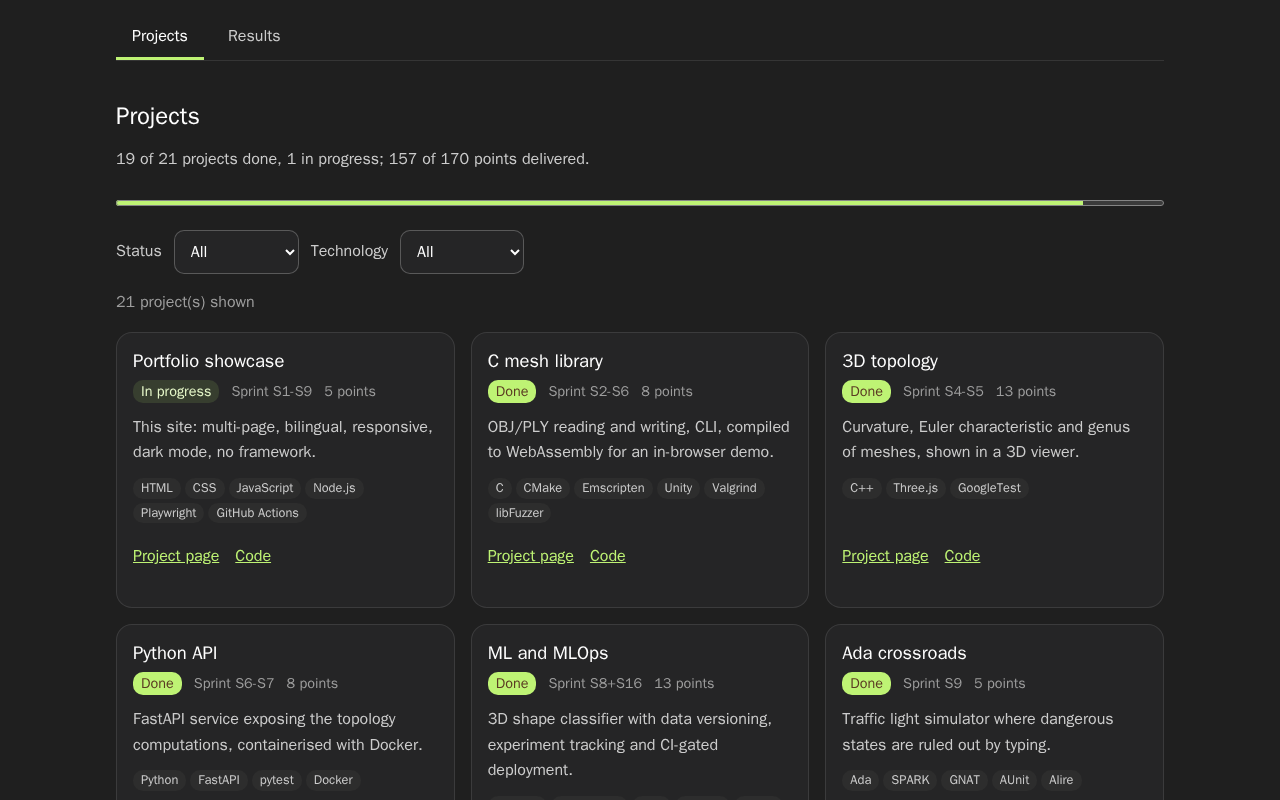
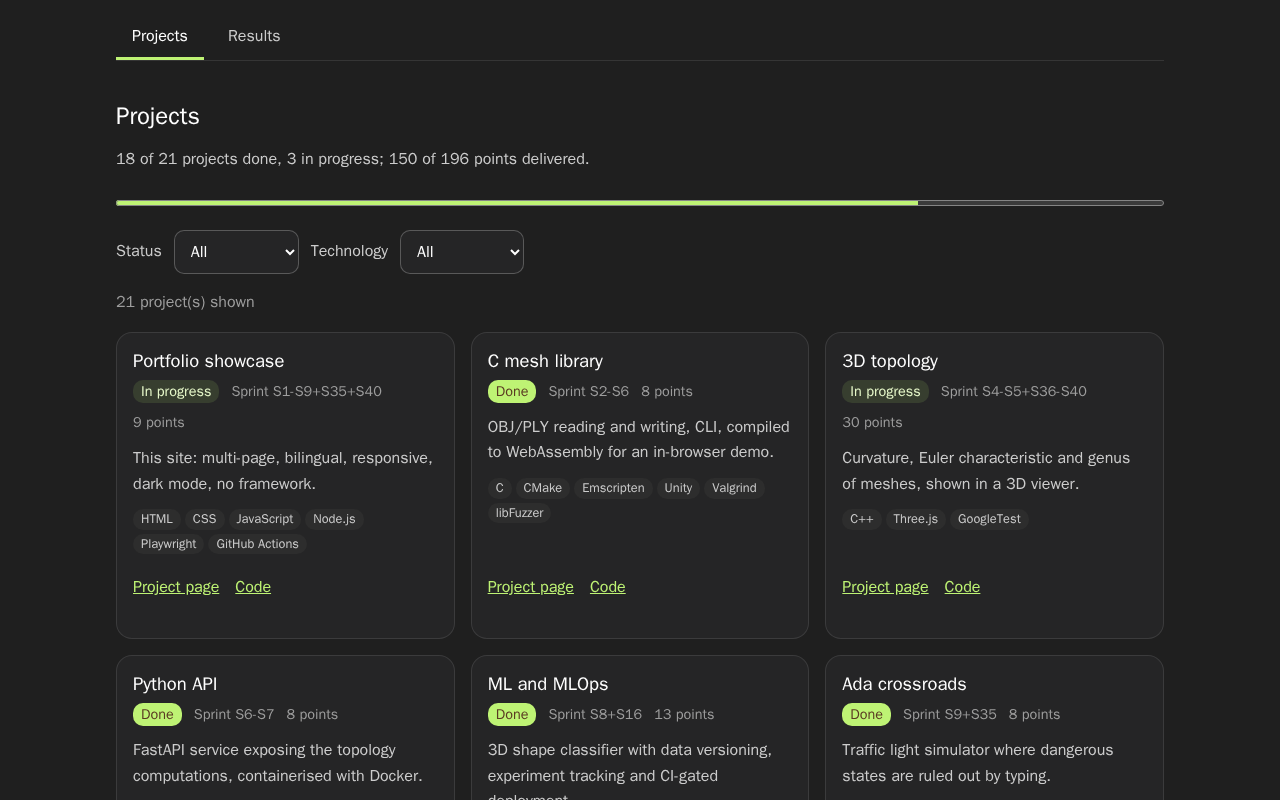
feat(vitrine): counts of projects and points computed everywhere, stale ones refused (sprint 40, story 3)
The Angular capture's alt text comes from data/projects.json through
projectSummary, the dashboards' own count; the captures are regenerated and
the script records the counts it photographed. A unit test refuses a stale
capture, a stale "N projects", or a stale total in the plan or the risk log.

diff --git a/scrum/sprint-40.md b/scrum/sprint-40.md
@@ -8,7 +8,7 @@
 |---|---|---|
 | En tant que visiteur, je vois combien de temps prend chaque calcul (topologie) : temps CPU mesuré dans le navigateur (WebAssembly) pour la hauteur, la persistance et le graphe de Reeb, affiché sous chaque résultat ; un tableau de temps natif et WebAssembly mesurés de 10 000 à un million de triangles, produit par un banc d'essai versionné ; une note sur le GPU (ce qu'il accélérerait, pourquoi la réduction et les union-find s'y prêtent mal) et une sur la limite de 32 Mo, chiffres à l'appui ; FR/EN ; GoogleTest, Node et Playwright. | 2 | Fait |
 | En tant qu'étudiant, je suis la décomposition d'un objet par dimensions croissantes (G-cartes) : objet, puis α0 (chaque arête en deux brins), α1 (les brins d'une face autour de chaque sommet), α2 (les faces cousues), puis la G-carte ; liaisons αi redessinées selon la convention des manuels (α0 en trait court entre les deux brins d'une arête, α1 en arc au coin, α2 en double trait entre deux faces), dans les étapes et sur le patron du cube ; tests unitaires de la géométrie (chaque liaison relie les bons brins, sans se confondre avec un brin), Playwright. | 2 | Fait |
-| En tant que recruteur, je lis partout le bon nombre de projets et de points (vitrine) : captures des tableaux de bord React et Angular régénérées, textes alternatifs calculés depuis `data/projects.json`, et un test qui refuse un nombre de projets ou de points périmé dans les textes et les données. | 1 | À faire |
+| En tant que recruteur, je lis partout le bon nombre de projets et de points (vitrine) : captures des tableaux de bord React et Angular régénérées, textes alternatifs calculés depuis `data/projects.json`, et un test qui refuse un nombre de projets ou de points périmé dans les textes et les données. | 1 | Fait |
 | En tant que recruteur, je lis un burndown juste (vitrine) : le reste compté en points de stories livrées, sprint après sprint, d'après `scrum/sprint-NN.md` ; chaque ajout de périmètre (D46 à D49) apparaît comme une marche au sprint où il arrive, sans réécrire les sprints passés ; « points restants » du backlog égal aux stories ouvertes (8 aujourd'hui, pas 45) ; textes de fin et tests unitaires suivent. | 1 | À faire |
 
 ## Rétro (à compléter par Charles)

diff --git a/REVIEW.md b/REVIEW.md
@@ -54,4 +54,5 @@ Claude y ajoute aussi ses constats au fil de l'eau, préfixés « (Claude) » ; 
 | 2026-10-08 | `src/templates.mjs` | (Claude) Détecté par axe sur mobile : le cadre du tableau des paires défile mais ne recevait pas le focus clavier | `tabindex="0"`, rôle `region` et nom, comme les graphiques de la page Gestion de projet |
 | 2026-10-08 | `src/templates.mjs` (page Gestion de projet) | (Claude) Détecté par le test de la feuille de route à l'ouverture du sprint 38 : le dernier sprint prévu ouvert mais pas fini, la page disait « Tous les sprints sont faits » (elle comparait le numéro du dernier fichier de sprint, pas les sprints clos) | Le texte de fin dépend des sprints clos |
 | 2026-10-08 | `src/lib.mjs` (`burndown`), page Gestion de projet | (Claude) Vu en ouvrant les sprints 39 et 40 (D49) : le reste se compte par projet entier, brûlé seulement à son dernier sprint. Réouvrir topologie, G-cartes et la vitrine affiche « 45 points restants sur 195 » quand les stories ouvertes n'en font que 8, et fait remonter le burndown de tous les sprints passés (déjà le cas à l'ouverture de D48) | Décision de Charles (8 octobre 2026) : compter les stories livrées, chaque ajout de périmètre visible au sprint où il arrive ; story ajoutée au sprint 40 (D49) |
+| 2026-10-08 | `data/i18n/*.json` (`angcmp.projects.alt`), `src/assets/images/angular-projects-*.png` | Signalé par Charles (D49) : la capture du tableau de bord Angular et son texte alternatif disaient encore « 19 projets terminés sur 21 et 157 points sur 170 » | (Claude) Texte calculé depuis `data/projects.json` (`projectSummary` dans `src/lib.mjs`, comme les tableaux de bord) ; captures régénérées, le script note les chiffres photographiés dans `projects/angular/data/screenshots.json` ; `tests/unit/counts.test.mjs` refuse une capture, un « N projets », le total du plan ou celui des risques périmés (vérifié en cassant le README et le plan). Chaque changement d'état d'un projet demandera de régénérer la capture : c'est voulu |
 | | | | |
